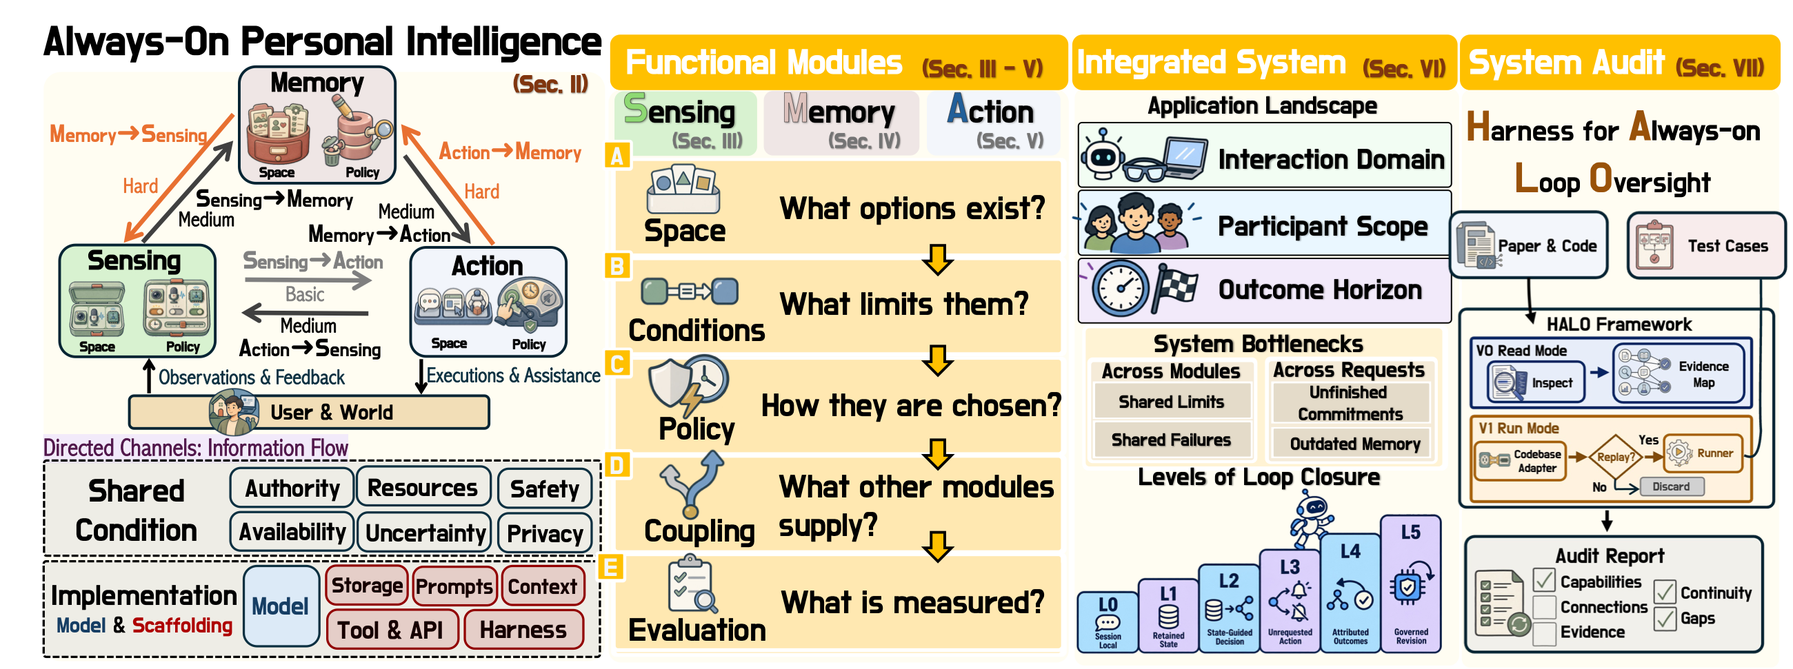
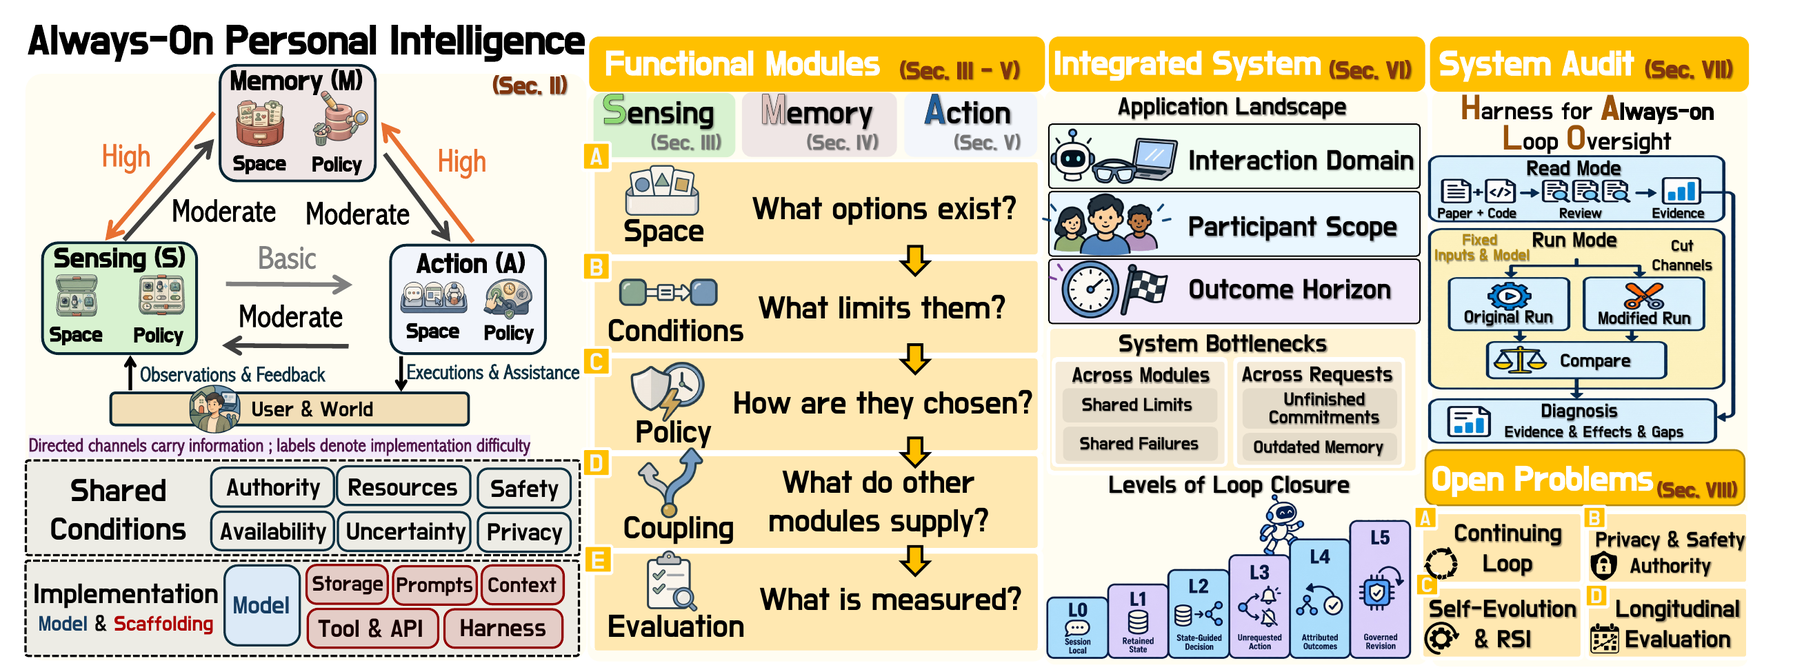
Sync the Overview and Foundations with the current survey, and add the Proactive AI survey
The Overview now follows the survey's abstract, and Figure 1 is the current roadmap figure with its
five-part caption. Foundations follows the survey's definitions: the two properties, the self-evolving
extension and its five-step chain of evidence, the channel table in the survey's own wording, shared
conditions and implementation, and the loop-closure levels as the survey defines them. The scope note
no longer counts scheduled operation as always-on, and the reading notes describe the sub-categories.
Proactive AI for Superintelligent Agents joins the concurrent system-level surveys, as in the survey.

diff --git a/README.md b/README.md
@@ -11,7 +11,7 @@
 
 <p>
   <a href="https://github.com/Always-On-Intelligence/awesome-always-on-personal-intelligence/stargazers"><img src="https://img.shields.io/github/stars/Always-On-Intelligence/awesome-always-on-personal-intelligence?style=flat-square&logo=github&color=B88465" alt="GitHub stars"/></a>
-  <img src="https://img.shields.io/badge/Papers-730-355774?style=flat-square" alt="730 papers"/>
+  <img src="https://img.shields.io/badge/Papers-731-355774?style=flat-square" alt="731 papers"/>
   <a href="LICENSE"><img src="https://img.shields.io/badge/License-MIT-8C8C8C?style=flat-square" alt="MIT License"/></a>
 </p>
 
@@ -36,47 +36,55 @@
 <a id="overview"></a>
 ## Overview
 
-The promise of always-on personal intelligence lies in a **continuing, self-evolving loop**. It must sustain assistance between requests, retain personal context, and carry unfinished commitments forward. Self-evolution extends the continuing loop through self-revisions from operating experience.
+Always-on personal intelligence demands more than episodic, task-driven agents. To remain always-on, it requires a **continuing loop** that sustains assistance between requests, retains personal context, and carries unfinished commitments forward. To grow more personal over time, this loop can also become **self-evolving**, revising how it works based on past experience.
 
 > [!IMPORTANT]
-> **The survey connects Sensing, Memory, and Action through six directed coupling channels. These modules operate under real-world conditions, such as privacy and authority, and are realized by an implementation of models and scaffolding.**
+> **The survey organizes the assistant into three functional modules, Sensing, Memory, and Action, connected by six directed channels that pass information between them. These modules operate under real-world limits, from battery life to privacy and user permissions, and run on models and the scaffolding around them.**
 
 <div align="center">
-<img src="assets/roadmap.png" width="95%" alt="Overview of the roadmap: the continuing loop, the module chapters, the system-level review, and HALO"/>
+<img src="assets/roadmap.png" width="95%" alt="Overview of the roadmap: the continuing loop, the module chapters, the system-level review, HALO, and the open problems"/>
 <br>
-<em><b>Figure 1.</b> Overview of the roadmap. We first define always-on personal intelligence as a continuing loop that connects Sensing, Memory, and Action through six directed channels. We then review each module by its space, conditions, policy, coupling, and evaluation. Next, we examine integrated systems, their bottlenecks, and their levels of loop closure. Finally, we audit existing systems with HALO in read and run modes.</em>
+<em><b>Figure 1.</b> Overview of the roadmap. This roadmap is organized into five parts. We first define always-on personal intelligence as a continuing loop that connects Sensing, Memory, and Action through six directed channels. We then review each module by its space, conditions, policy, coupling, and evaluation. Building on these reviews, we examine integrated systems, their bottlenecks, and their levels of loop closure, and audit existing systems with HALO in read and run modes. Finally, we discuss the open problems in always-on personal intelligence.</em>
 </div>
 
-**How to read the list.** Sections and titles follow the survey's module chapters, and each work appears once, under the section where the survey discusses it. Works added by the daily scan, which the survey does not cite yet, sit where they fit its framework. Each list runs from the newest work to the oldest, except the application and loop-closure lists, which run from the highest loop-closure level (`L5`) down. Tags show the survey's own groupings: what starts observation or action, which kind of memory, a benchmark group, or a system's domain. A channel tag such as `M→S` marks a work discussed under that coupling channel, `L0` to `L5` give a system's level in the loop-closure table, and `Product` marks a published study of a product. Products are listed separately under [Products & Tools](#products), one line per product with its official page.
+**How to read the list.** Sections and titles follow the survey's module chapters, and each work appears once, under the section where the survey discusses it. Long sections are divided into the survey's own sub-categories: the paragraphs of its text, the groups of its benchmark tables, or its open problems, and a work the survey cites sits under the one that cites it. Works added by the daily scan, which the survey does not cite yet, sit where they fit its framework. Each list runs from the newest work to the oldest, except the application and loop-closure lists, which run from the highest loop-closure level (`L5`) down. A channel tag such as `M→S` marks a work discussed under that coupling channel, `L0` to `L5` give a system's level in the loop-closure table, and `Product` marks a published study of a product. Products are listed separately under [Products & Tools](#products), one line per product with its official page.
 
 ---
 
 <a id="foundations"></a>
 ## <img src="assets/icons/foundations.svg" height="30" align="top" alt=""/> Foundations
 
-A **continuing loop** sustains service and preserves relevant personal state across interactions. Its two properties, **operational continuity** and **state durability**, form the foundation of always-on personal intelligence. A **self-evolving loop** builds on it and revises the assistant using its own operating experience. Within each module, the survey distinguishes its **space**, the information and capabilities available to it, from the **local policy** that selects and uses them. Six directed **coupling channels** carry information between the modules:
+Always-on personal intelligence is personal assistance that maintains two core properties for the same user. **Operational continuity** is the ability to keep operating between explicit requests and to decide when to act or wait. **State durability** is the ability to preserve user-specific state for later use and to carry unresolved commitments across interaction boundaries. The **continuing loop**, the foundation of always-on personal intelligence, provides both properties through the recurring operation of Sensing, Memory, and Action.
 
-| Channel | What it supplies | Difficulty | Covered in |
+Its **self-evolving extension** uses operating experience to make durable revisions to the assistant's **mechanism**, the model weights and the scaffolding that decide how it works, and later steps use the revised mechanism. Storing that the user prefers reminders at their workstation is a state update, while editing the timing rule to wait until they are back there is a revision. A claim of self-evolution that rests on outcome feedback needs a chain of evidence with five steps: record, outcome, attribution, revision, and later use.
+
+Within each module, the survey distinguishes its **space**, what the module can do and represent, from the **local policy** that chooses among these options. Six directed **coupling channels** each carry information from one module to another for the receiving module to use:
+
+| Channel | Information flow | Difficulty | Covered in |
 |:--:|:--|:--:|:--:|
-| **S→A** | Current context, events, and execution state, as the situation to act on and to decide whether, when, and how to act | Basic | [Action](#sec-5) |
-| **S→M** | Sensed evidence, as new material to retain and to decide what to admit, integrate, or correct | Moderate | [Memory](#sec-4) |
-| **M→A** | Retained personal state, as action content and to choose timing, effector, or commitment | Moderate | [Action](#sec-5) |
-| **A→S** | Intentions, plans, and execution state, as expected effects to check and to decide what to observe | Moderate | [Sensing](#sec-3) |
-| **M→S** | Retained priors, as background for interpretation and to guide sampling, attention, or compression | High | [Sensing](#sec-3) |
-| **A→M** | Action context, trajectories, outcomes, and feedback, as task history to retain and to decide what to integrate or correct | High | [Memory](#sec-4) |
+| **S→A** | Current context and observed execution state that inform Action's decisions | Basic | [Action](#sec-5) |
+| **S→M** | Observations that Memory uses to create or update records | Moderate | [Memory](#sec-4) |
+| **M→A** | Retained personal information and pending commitments that inform Action's decisions | Moderate | [Action](#sec-5) |
+| **A→S** | Action plans and execution state that guide what Sensing observes and checks | Moderate | [Sensing](#sec-3) |
+| **M→S** | Retained information that guides what Sensing observes and how it interprets new observations | High | [Sensing](#sec-3) |
+| **A→M** | Action context and immediate results that Memory uses to maintain task history | High | [Memory](#sec-4) |
 
-Systems differ in how much of the loop they close. Each level keeps the capabilities of the levels below it:
+Difficulty is the survey's qualitative rating. Basic marks the S→A path that every agent system has, and High marks channels whose errors are hard to detect and correct.
 
-| Level | A service reaches it when |
+Every module and channel works under **shared conditions**, the limits set by the user and the world: privacy, user authority, safety, resource budgets, availability, and uncertainty. Within these limits, each runs on an **implementation**, the models and the scaffolding around them, such as prompts, tools, memory stores, and the harness that runs the loop.
+
+Systems differ in how completely they close this loop. The six levels are cumulative, and L3 is the first always-on level, because from L3 on both properties hold:
+
+| Level | An assistant reaches it when |
 |:--:|:--|
-| **L0** Session local | It serves within one session, without retention across interactions (the reference baseline) |
-| **L1** Retained state | Information from one interaction is still available in a separate, later interaction |
-| **L2** State-guided decision | A stored record changes a later Sensing or Action decision |
-| **L3** Unrequested action | It decides for itself whether or when to act at a step that no request starts, and waiting counts as an outcome |
-| **L4** Attributed outcomes | Outcome evidence from outside a decision is linked to that decision and used to check or correct assistance |
-| **L5** Governed revision | Its revisions persist into later runs, and the shared conditions are applied to every revision path before a revision takes effect |
+| **L0** Session local | It responds within one session and keeps nothing across interactions (the baseline) |
+| **L1** Retained state | It carries information across sessions: one session writes a memory that a later session can read |
+| **L2** State-guided decision | Its stored records change later decisions about what to sense or how to act, while it still acts only as requested |
+| **L3** Unrequested action | It decides for itself whether or when to act without a request, and waiting is one of its choices. Acting at a time or condition the user fixed stays at L2 |
+| **L4** Attributed outcomes | It links outcome evidence that arrives after a decision, from the world or the user, to that decision, so that it can check or correct its assistance |
+| **L5** Governed revision | It revises its mechanism only within the shared conditions: a control applies them to every revision before it takes effect, and the revisions that pass carry over into later runs |
 
-The synthesis finds the thinnest support for two channels: memory guiding sensing (M→S) and action outcomes returning to memory (A→M).
+The survey's synthesis reveals the thinnest support for two channels: Memory guiding Sensing (M→S), and action outcomes returning to Memory (A→M). These gaps motivate two research priorities: keeping sensing open to unexpected change for reliable operation, and attributing outcomes to earlier decisions for self-evolution.
 
 ---
 
@@ -949,7 +957,7 @@ Action decides whether, when, and how the assistant acts on the external world, 
 <a id="sec-6"></a>
 ## <img src="assets/icons/systems.svg" height="30" align="top" alt=""/> Applications, System Bottlenecks, and Loop Closure
 
-How Sensing, Memory, and Action work together in wearable, digital, and physical applications, where reported systems meet bottlenecks, and which level of loop closure each supports. A level tag (`L0` to `L5`) gives a system's place in the loop-closure table, and `Product` marks its product rows.
+How Sensing, Memory, and Action work together in wearable, digital, and physical applications, where reported systems meet bottlenecks, which level of loop closure each supports, and how reported systems revise their mechanism. A level tag (`L0` to `L5`) gives a system's place in the loop-closure table, and `Product` marks its product rows.
 
 <a id="sec-6-1"></a>
 ### Applications and Bottlenecks
@@ -1232,7 +1240,7 @@ Where current always-on systems fall short, stated as open problems in four part
 <a id="related-surveys"></a>
 ## <img src="assets/icons/surveys.svg" height="30" align="top" alt=""/> Related Surveys
 
-Capability-focused surveys, and concurrent system-level surveys that connect several components around persistent state, device platforms, human trajectories, or model-harness co-evolution.
+Capability-focused surveys, which each study one capability in depth, and concurrent system-level surveys, which organize the field from other perspectives: a person's own state, the smart-glasses device, long-horizon tasks, proactiveness, or the lifecycle of what an agent keeps across sessions.
 
 ### Perception across modalities and deployment settings
 
@@ -1287,6 +1295,7 @@ Capability-focused surveys, and concurrent system-level surveys that connect sev
 - Always-On Agents: A Survey of Persistent Memory, State, and Governance in LLM Agents. [![arXiv 2026][b-arxiv-2026-a1574a]](https://arxiv.org/abs/2606.30306)
 - ComBodied Agents: a New Paradigm of Human-Centric Agentic AI. [![arXiv 2026][b-arxiv-2026-a1574a]](https://arxiv.org/abs/2608.10915)
 - From Seeing to Acting: Smart Glasses as First-Person Intelligence Platforms. [![arXiv 2026][b-arxiv-2026-a1574a]](https://arxiv.org/abs/2608.24877) [![Code][b-code-3b434d-github]](https://github.com/zhangzjn/awesome-smart-glasses)
+- Proactive AI for Superintelligent Agents. [![Preprint 2026][b-preprint-2026-355774]](https://empathyang.github.io/Proactive-AI-for-Superintelligent-Agents/Proactive-AI-for-Superintelligent-Agents.pdf) [![Project][b-project-3b434d]](https://empathyang.github.io/Proactive-AI-for-Superintelligent-Agents/)
 - Towards Long-Horizon Agents: A Survey. [![Preprints 2026][b-preprints-2026-8c8c8c]](https://doi.org/10.20944/preprints202607.1328.v1)
 
 ---
@@ -1610,6 +1619,7 @@ The paper will be released soon. Until then, please cite it as it currently appe
 [b-odyssey-2020-355774]: https://img.shields.io/badge/Odyssey_2020-355774?style=flat-square
 [b-paclic-2025-355774]: https://img.shields.io/badge/PACLIC_2025-355774?style=flat-square
 [b-pets-2022-355774]: https://img.shields.io/badge/PETS_2022-355774?style=flat-square
+[b-preprint-2026-355774]: https://img.shields.io/badge/Preprint_2026-355774?style=flat-square
 [b-preprints-2026-8c8c8c]: https://img.shields.io/badge/Preprints_2026-8c8c8c?style=flat-square
 [b-proc-ieee-1988-355774]: https://img.shields.io/badge/Proc._IEEE_1988-355774?style=flat-square
 [b-product-8a6400]: https://img.shields.io/badge/Product-8a6400?style=flat-square

diff --git a/docs/readme-intro.md b/docs/readme-intro.md
@@ -24,44 +24,52 @@
 <a id="overview"></a>
 ## Overview
 
-The promise of always-on personal intelligence lies in a **continuing, self-evolving loop**. It must sustain assistance between requests, retain personal context, and carry unfinished commitments forward. Self-evolution extends the continuing loop through self-revisions from operating experience.
+Always-on personal intelligence demands more than episodic, task-driven agents. To remain always-on, it requires a **continuing loop** that sustains assistance between requests, retains personal context, and carries unfinished commitments forward. To grow more personal over time, this loop can also become **self-evolving**, revising how it works based on past experience.
 
 > [!IMPORTANT]
-> **The survey connects Sensing, Memory, and Action through six directed coupling channels. These modules operate under real-world conditions, such as privacy and authority, and are realized by an implementation of models and scaffolding.**
+> **The survey organizes the assistant into three functional modules, Sensing, Memory, and Action, connected by six directed channels that pass information between them. These modules operate under real-world limits, from battery life to privacy and user permissions, and run on models and the scaffolding around them.**
 
 <div align="center">
-<img src="assets/roadmap.png" width="95%" alt="Overview of the roadmap: the continuing loop, the module chapters, the system-level review, and HALO"/>
+<img src="assets/roadmap.png" width="95%" alt="Overview of the roadmap: the continuing loop, the module chapters, the system-level review, HALO, and the open problems"/>
 <br>
-<em><b>Figure 1.</b> Overview of the roadmap. We first define always-on personal intelligence as a continuing loop that connects Sensing, Memory, and Action through six directed channels. We then review each module by its space, conditions, policy, coupling, and evaluation. Next, we examine integrated systems, their bottlenecks, and their levels of loop closure. Finally, we audit existing systems with HALO in read and run modes.</em>
+<em><b>Figure 1.</b> Overview of the roadmap. This roadmap is organized into five parts. We first define always-on personal intelligence as a continuing loop that connects Sensing, Memory, and Action through six directed channels. We then review each module by its space, conditions, policy, coupling, and evaluation. Building on these reviews, we examine integrated systems, their bottlenecks, and their levels of loop closure, and audit existing systems with HALO in read and run modes. Finally, we discuss the open problems in always-on personal intelligence.</em>
 </div>
 
-**How to read the list.** Sections and titles follow the survey's module chapters, and each work appears once, under the section where the survey discusses it. Works added by the daily scan, which the survey does not cite yet, sit where they fit its framework. Each list runs from the newest work to the oldest, except the application and loop-closure lists, which run from the highest loop-closure level (`L5`) down. Tags show the survey's own groupings: what starts observation or action, which kind of memory, a benchmark group, or a system's domain. A channel tag such as `M→S` marks a work discussed under that coupling channel, `L0` to `L5` give a system's level in the loop-closure table, and `Product` marks a published study of a product. Products are listed separately under [Products & Tools](#products), one line per product with its official page.
+**How to read the list.** Sections and titles follow the survey's module chapters, and each work appears once, under the section where the survey discusses it. Long sections are divided into the survey's own sub-categories: the paragraphs of its text, the groups of its benchmark tables, or its open problems, and a work the survey cites sits under the one that cites it. Works added by the daily scan, which the survey does not cite yet, sit where they fit its framework. Each list runs from the newest work to the oldest, except the application and loop-closure lists, which run from the highest loop-closure level (`L5`) down. A channel tag such as `M→S` marks a work discussed under that coupling channel, `L0` to `L5` give a system's level in the loop-closure table, and `Product` marks a published study of a product. Products are listed separately under [Products & Tools](#products), one line per product with its official page.
 
 ---
 
 <a id="foundations"></a>
 ## <img src="assets/icons/foundations.svg" height="30" align="top" alt=""/> Foundations
 
-A **continuing loop** sustains service and preserves relevant personal state across interactions. Its two properties, **operational continuity** and **state durability**, form the foundation of always-on personal intelligence. A **self-evolving loop** builds on it and revises the assistant using its own operating experience. Within each module, the survey distinguishes its **space**, the information and capabilities available to it, from the **local policy** that selects and uses them. Six directed **coupling channels** carry information between the modules:
+Always-on personal intelligence is personal assistance that maintains two core properties for the same user. **Operational continuity** is the ability to keep operating between explicit requests and to decide when to act or wait. **State durability** is the ability to preserve user-specific state for later use and to carry unresolved commitments across interaction boundaries. The **continuing loop**, the foundation of always-on personal intelligence, provides both properties through the recurring operation of Sensing, Memory, and Action.
 
-| Channel | What it supplies | Difficulty | Covered in |
+Its **self-evolving extension** uses operating experience to make durable revisions to the assistant's **mechanism**, the model weights and the scaffolding that decide how it works, and later steps use the revised mechanism. Storing that the user prefers reminders at their workstation is a state update, while editing the timing rule to wait until they are back there is a revision. A claim of self-evolution that rests on outcome feedback needs a chain of evidence with five steps: record, outcome, attribution, revision, and later use.
+
+Within each module, the survey distinguishes its **space**, what the module can do and represent, from the **local policy** that chooses among these options. Six directed **coupling channels** each carry information from one module to another for the receiving module to use:
+
+| Channel | Information flow | Difficulty | Covered in |
 |:--:|:--|:--:|:--:|
-| **S→A** | Current context, events, and execution state, as the situation to act on and to decide whether, when, and how to act | Basic | [Action](#sec-5) |
-| **S→M** | Sensed evidence, as new material to retain and to decide what to admit, integrate, or correct | Moderate | [Memory](#sec-4) |
-| **M→A** | Retained personal state, as action content and to choose timing, effector, or commitment | Moderate | [Action](#sec-5) |
-| **A→S** | Intentions, plans, and execution state, as expected effects to check and to decide what to observe | Moderate | [Sensing](#sec-3) |
-| **M→S** | Retained priors, as background for interpretation and to guide sampling, attention, or compression | High | [Sensing](#sec-3) |
-| **A→M** | Action context, trajectories, outcomes, and feedback, as task history to retain and to decide what to integrate or correct | High | [Memory](#sec-4) |
+| **S→A** | Current context and observed execution state that inform Action's decisions | Basic | [Action](#sec-5) |
+| **S→M** | Observations that Memory uses to create or update records | Moderate | [Memory](#sec-4) |
+| **M→A** | Retained personal information and pending commitments that inform Action's decisions | Moderate | [Action](#sec-5) |
+| **A→S** | Action plans and execution state that guide what Sensing observes and checks | Moderate | [Sensing](#sec-3) |
+| **M→S** | Retained information that guides what Sensing observes and how it interprets new observations | High | [Sensing](#sec-3) |
+| **A→M** | Action context and immediate results that Memory uses to maintain task history | High | [Memory](#sec-4) |
 
-Systems differ in how much of the loop they close. Each level keeps the capabilities of the levels below it:
+Difficulty is the survey's qualitative rating. Basic marks the S→A path that every agent system has, and High marks channels whose errors are hard to detect and correct.
 
-| Level | A service reaches it when |
+Every module and channel works under **shared conditions**, the limits set by the user and the world: privacy, user authority, safety, resource budgets, availability, and uncertainty. Within these limits, each runs on an **implementation**, the models and the scaffolding around them, such as prompts, tools, memory stores, and the harness that runs the loop.
+
+Systems differ in how completely they close this loop. The six levels are cumulative, and L3 is the first always-on level, because from L3 on both properties hold:
+
+| Level | An assistant reaches it when |
 |:--:|:--|
-| **L0** Session local | It serves within one session, without retention across interactions (the reference baseline) |
-| **L1** Retained state | Information from one interaction is still available in a separate, later interaction |
-| **L2** State-guided decision | A stored record changes a later Sensing or Action decision |
-| **L3** Unrequested action | It decides for itself whether or when to act at a step that no request starts, and waiting counts as an outcome |
-| **L4** Attributed outcomes | Outcome evidence from outside a decision is linked to that decision and used to check or correct assistance |
-| **L5** Governed revision | Its revisions persist into later runs, and the shared conditions are applied to every revision path before a revision takes effect |
+| **L0** Session local | It responds within one session and keeps nothing across interactions (the baseline) |
+| **L1** Retained state | It carries information across sessions: one session writes a memory that a later session can read |
+| **L2** State-guided decision | Its stored records change later decisions about what to sense or how to act, while it still acts only as requested |
+| **L3** Unrequested action | It decides for itself whether or when to act without a request, and waiting is one of its choices. Acting at a time or condition the user fixed stays at L2 |
+| **L4** Attributed outcomes | It links outcome evidence that arrives after a decision, from the world or the user, to that decision, so that it can check or correct its assistance |
+| **L5** Governed revision | It revises its mechanism only within the shared conditions: a control applies them to every revision before it takes effect, and the revisions that pass carry over into later runs |
 
-The synthesis finds the thinnest support for two channels: memory guiding sensing (M→S) and action outcomes returning to memory (A→M).
+The survey's synthesis reveals the thinnest support for two channels: Memory guiding Sensing (M→S), and action outcomes returning to Memory (A→M). These gaps motivate two research priorities: keeping sensing open to unexpected change for reliable operation, and attributing outcomes to earlier decisions for self-evolution.

diff --git a/docs/taxonomy.md b/docs/taxonomy.md
@@ -4,7 +4,7 @@ This reading list accompanies *Always-On Personal Intelligence: A Roadmap Toward
 
 ## Scope
 
-A continuing loop sustains service and preserves relevant personal state across interactions. Its two properties, operational continuity and state durability, form the foundation of always-on personal intelligence. A self-evolving loop extends it by revising the assistant using its own operating experience. Scheduled and event-driven operation qualify; continuous recording or model execution is not required.
+Always-on personal intelligence is personal assistance that maintains two core properties for the same user. Operational continuity is the ability to keep operating between explicit requests and to decide when to act or wait, and state durability is the ability to preserve user-specific state for later use and to carry unresolved commitments across interaction boundaries. The continuing loop of Sensing, Memory, and Action provides both, and its self-evolving extension revises how the assistant works from operating experience. What counts is who decides whether to act: an assistant that acts only at a time or condition the user fixed carries out an earlier request. Continuous recording or model execution is not required.
 
 The list includes component methods, benchmarks, and partial systems when the survey uses them as methods or evidence. Inclusion does not mean that a work meets the full always-on definition.
 
@@ -14,11 +14,13 @@ The list starts directly with the survey's module chapters and follows its title
 
 | Section | Parts |
 |:--|:--|
-| Sensing, Memory, Action | Space, operating conditions, policy, coupling across the loop, and evaluation, with the survey's subsections |
-| Applications, System Bottlenecks, and Loop Closure | Applications and bottlenecks by domain, shared conditions and implementation, levels of loop closure, self-evolution in deployed loops |
-| Trends and Open Problems | Local policies, coordination, self-evolution and recursive revision, longitudinal evaluation |
+| Sensing, Memory, Action | Space, shared conditions, policy, coupling across the loop, and evaluation, with the survey's subsections |
+| Applications, System Bottlenecks, and Loop Closure | Applications and bottlenecks by domain, shared conditions and implementation across modules, levels of loop closure, self-evolution in deployed loops |
+| Trends and Open Problems | Sustaining the continuing loop; authority, privacy, and safety; self-evolution and recursive revision; longitudinal evaluation and real deployment |
 | Related Surveys | Capability-focused and concurrent system-level surveys |
 | Products & Tools | One line per product the survey discusses, with its official page, by wearable, digital, and physical domain; devices and platforms; a few curated products; and developer tools |
+
+Long sections are divided into the survey's own sub-categories, kept as `groups` in `data/sections.json`: the paragraph headings of a subsection, the group rows of a module's benchmark table, the open problems of a Trends and Open Problems part, or the citation groups of the survey's related-survey paragraph. A work the survey cites goes under the sub-category that cites it, and works the survey does not cite yet go where they fit. A section whose works fall into fewer than two sub-categories is shown as one list.
 
 The README's Foundations section summarizes the survey's definitions, coupling channels, and loop-closure levels without a reading list. Works the survey cites only in its Introduction or Foundations, such as textbooks and early visions, are left out, apart from the related surveys and device pages.
 
@@ -29,20 +31,19 @@ Research works and products are kept apart. The survey's product sources (offici
 1. A related survey discussed in the survey's positioning goes to Related Surveys.
 2. A system in the application landscape table goes to its domain under Applications and Bottlenecks; a system in the loop-closure table goes to Levels of Loop Closure.
 3. A benchmark in a module's benchmark table goes to that module's Benchmarks and Evaluation Settings.
-4. Other works go to the subsection that discusses them, preferring evaluation, then self-evolution, then policy, then space and operating conditions, then coupling.
+4. Other works go to the subsection that discusses them, preferring evaluation, then self-evolution, then policy, then space and shared conditions, then coupling.
 
 ## Tags
 
 | Tag | Meaning |
 |:--|:--|
-| Grouping tags such as `Continuous`, `Profile`, `Deferred`, `Recall baselines`, `Wearable` | The survey's own grouping inside a section: what starts observation or action, the kind of memory, a benchmark-table group, or a system's domain |
 | `S→A`, `S→M`, `M→A`, `A→S`, `M→S`, `A→M` | The survey discusses the work under that coupling channel |
 | `L0` to `L5` | The system's level in the loop-closure table: session local, retained state, state-guided decision, unrequested action, attributed outcomes, governed revision |
 | `Product` | A published study of a product from the loop-closure table's product rows |
 
 ## Maintenance
 
-- Research entries: newest first, then by title, within each section. The lists under Applications and Bottlenecks and Levels of Loop Closure run from the highest loop-closure level down, then newest first; works without a level come last.
+- Research entries: newest first, then by title, within each section or sub-category. The lists under Applications and Bottlenecks and Levels of Loop Closure run from the highest loop-closure level down, then newest first; works without a level come last.
 - Products and tools: by group, then by title.
 - Sections without entries are omitted from the README.
 - Source data: `data/sections.json` (sections in reading order, with the survey's groupings and their tags), `data/research.json`, `data/products.json`, and `data/tools.json`. Framing text: `docs/readme-intro.md` and `docs/readme-footer.md`. `README.md` is generated.
